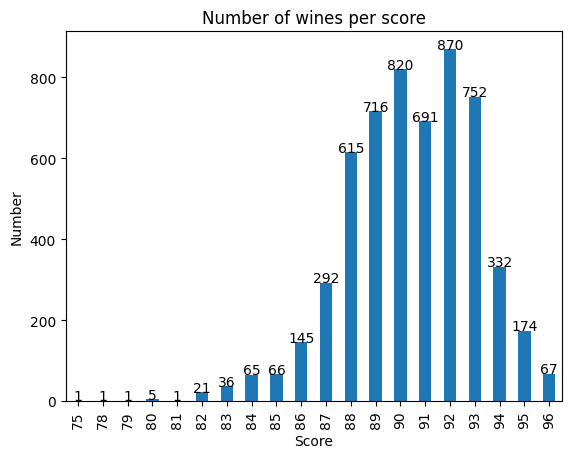
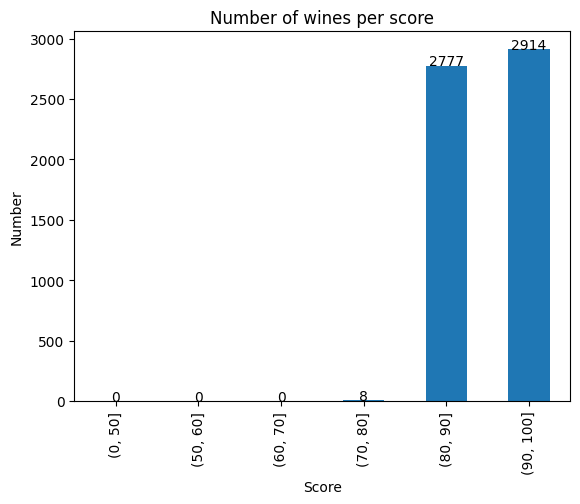
added wines per score range

Changed region(s): [[0.0, 0.0, 1.0, 0.9782]]

diff --git a/src/stats.py b/src/stats.py
@@ -32,7 +32,9 @@ wine_count_by_winery = dataset.groupby('winery')['name'].count()
 price_ranges = [0, 50, 100, 150, 200, 250, 300, float('inf')]
 dataset['price_range'] = pd.cut(dataset['price'].str.replace('$', '').str.replace(',', '').astype(float), bins=price_ranges)
 wines_per_price_range = dataset.groupby('price_range')['name'].count()
-wines_per_score = dataset.groupby('score')['name'].count()
+score_ranges = [0, 50, 60, 70, 80, 90, 100]
+dataset['score_range'] = pd.cut(dataset['score'], bins=score_ranges)
+wines_per_score_range = dataset.groupby('score_range')['name'].count()
 
 # 2. Average score per type/region/winery
 avg_score_per_type = dataset.groupby('type_and_color')['score'].mean()
@@ -58,8 +60,8 @@ print("\n1. Number of wines per winery:")
 print(wine_count_by_winery)
 print("\n1. Number of wines per price range:")
 print(wines_per_price_range)
-print("\n1. Number of wines per score:")
-print(wines_per_score)
+print("\n1. Number of wines per score range:")
+print(wines_per_score_range)
 
 print("2. Average score per type:")
 print(avg_score_per_type)
@@ -83,7 +85,7 @@ bar_graph(wine_count_by_type, 'Number of wines per type', 'Type', 'Number', Fals
 bar_graph(wine_count_by_region, 'Number of wines per region', 'Region', 'Number', True)
 bar_graph(wine_count_by_winery, 'Number of wines per winery', 'Winery', 'Number', True)
 bar_graph(wines_per_price_range, 'Number of wines per price range', 'Price', 'Number', False)
-bar_graph(wines_per_score, 'Number of wines per score', 'Score', 'Number', False)
+bar_graph(wines_per_score_range, 'Number of wines per score', 'Score', 'Number', False)
 
 bar_graph(avg_score_per_type, 'Average score per type', 'Type', 'Score', False)
 bar_graph(avg_score_per_region, 'Average score per region', 'Region', 'Score', True)
@@ -95,3 +97,23 @@ bar_graph(avg_price_per_winery, 'Average price per winery', 'Winery', 'Price', T
 
 bar_graph(reviewers_per_number_of_reviews, 'Number of reviews per reviewer', 'Reviewers', 'Number of reviews', False)
 
+
+# New stats
+
+# 1. Top 10 best rated wines
+top_10_best_rated = dataset.nlargest(10, 'score')
+
+# 2. Top 10 worst rated wines
+top_10_worst_rated = dataset.nsmallest(10, 'score')
+
+# 3. Top 10 most expensive wines
+top_10_most_expensive = dataset.nlargest(10, 'price')
+
+# 4. Top 10 least expensive wines
+top_10_least_expensive = dataset.nsmallest(10, 'price')
+
+
+# bar_graph(top_10_best_rated['score'], 'Top 10 best rated wines', 'Wine', 'Score', False)
+# bar_graph(top_10_worst_rated['score'], 'Top 10 worst rated wines', 'Wine', 'Score', False)
+# bar_graph(top_10_most_expensive['price'], 'Top 10 most expensive wines', 'Wine', 'Price', False)
+# bar_graph(top_10_least_expensive['price'], 'Top 10 least expensive wines', 'Wine', 'Price', False)
